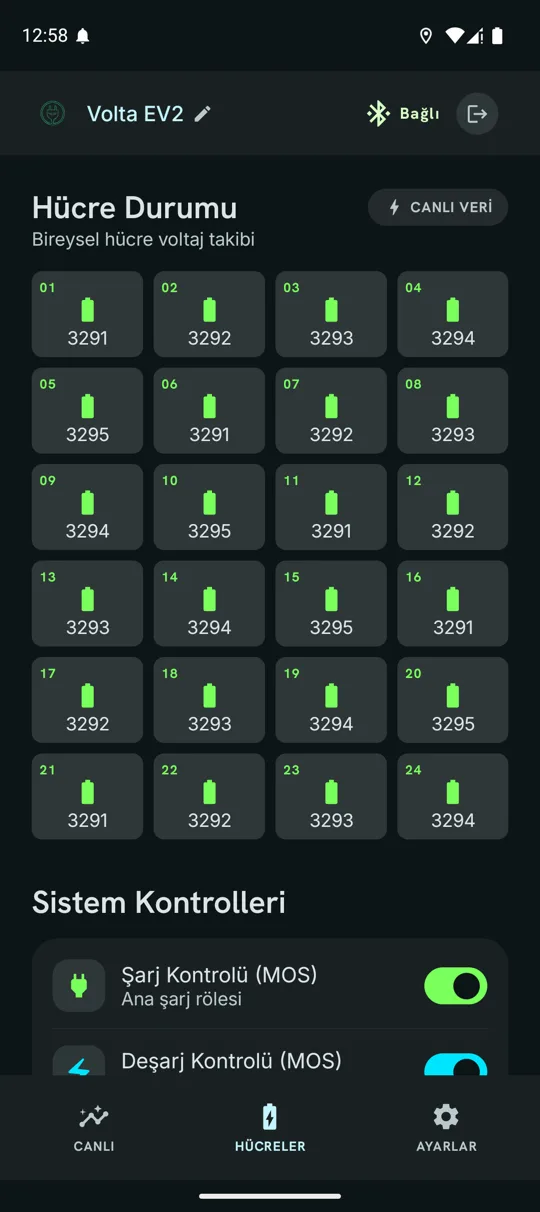
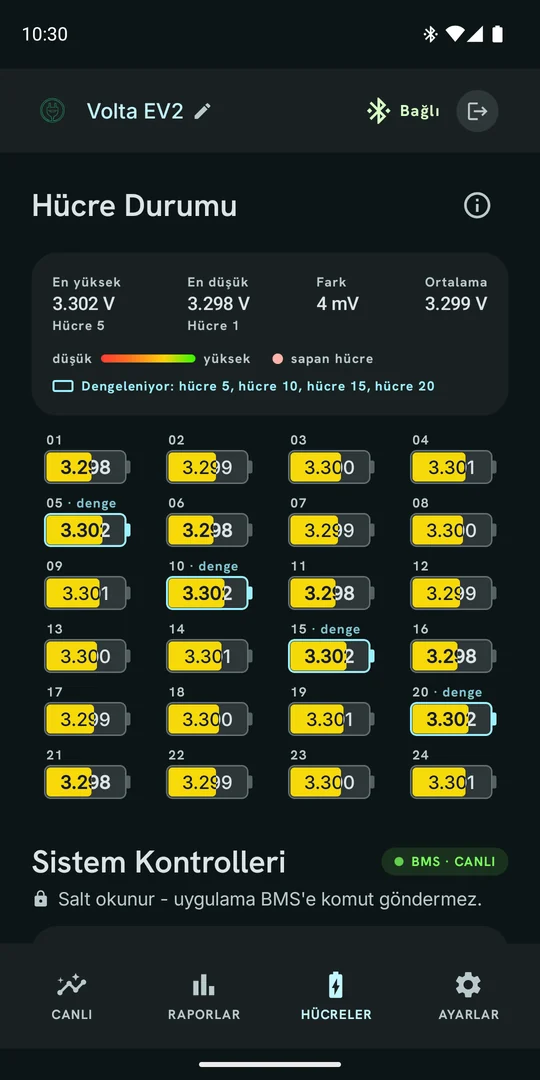
1.0.07: sürüş ve şarj kaydı, yeni ekran görüntüleri, APK bağlantısı kaldırıldı
Sürüm notları, Sürüş kaydı ve raporlar / Şarj kaydı kartları, sürüş penceresi
iPhone'u da kapsıyor, hücre kartı güncel. Ekran görüntüleri 1.0.07 arayüzüyle
yenilendi (Raporlar'ın iki sayfası eklendi). Android için APK dağıtımı bırakıldı:
güncellemeler yalnızca Google Play üzerinden.

diff --git a/index.html b/index.html
@@ -4,7 +4,7 @@
 <meta charset="utf-8">
 <meta name="viewport" content="width=device-width, initial-scale=1">
 <title>Volta Şarj</title>
-<meta name="description" content="Elektrikli aracınızın bataryasını Bluetooth ile telefonunuzdan izleyin: doluluk, öğrenen menzil tahmini, şarj alarmı, hücre gerilimleri.">
+<meta name="description" content="Elektrikli aracınızın bataryasını Bluetooth ile telefonunuzdan izleyin: doluluk, öğrenen menzil tahmini, sürüş ve şarj kaydı, şarj alarmı, hücre gerilimleri.">
 <link rel="icon" href="icon.png">
 <style>
   :root {
@@ -45,8 +45,11 @@
   .shot p { margin: .6rem 0 0; font-size: .85rem; color: var(--muted); line-height: 1.4; }
   @media (min-width: 60rem) {
     main { max-width: 58rem; }
-    .shots { overflow: visible; justify-content: center; }
     .shot { width: 12.5rem; }
+  }
+  /* Altı görsel ancak bu genişlikte yan yana sığıyor; altında şerit yana kaydırılıyor. */
+  @media (min-width: 84rem) {
+    .shots { overflow: visible; justify-content: center; }
   }
   .grid { display: grid; gap: 1rem; grid-template-columns: repeat(auto-fit, minmax(15rem, 1fr)); }
   .card { background: var(--card); border-radius: 10px; padding: 1.1rem 1.2rem; }
@@ -98,19 +101,27 @@
 
 <div class="shots">
   <figure class="shot" style="margin:0">
-    <img src="ekran/sarj.webp" alt="Şarj ekranı: doluluk yüzdesi, tahmini dolum süresi ve kurulu şarj alarmı" loading="lazy" width="540" height="1212">
-    <p>Şarjda: dolum süresi ve kurulu alarm</p>
+    <img src="ekran/sarj.webp" alt="Şarj ekranı: doluluk yüzdesi, şarj olurken pilden yükselen kıvılcımlar, tahmini dolum süresi" loading="lazy" width="540" height="1080">
+    <p>Şarjda: dolum süresi ve alarm</p>
   </figure>
   <figure class="shot" style="margin:0">
-    <img src="ekran/surus.webp" alt="Sürüş ekranı: güç göstergesi ve tahmini menzil" loading="lazy" width="540" height="1212">
+    <img src="ekran/surus.webp" alt="Sürüş ekranı: güç göstergesi, tahmini menzil ve gerilim" loading="lazy" width="540" height="1080">
     <p>Sürüşte: güç göstergesi ve menzil</p>
   </figure>
   <figure class="shot" style="margin:0">
-    <img src="ekran/hucreler.webp" alt="Hücreler ekranı: 24 hücrenin gerilimleri ve sistem kontrolleri" loading="lazy" width="540" height="1212">
+    <img src="ekran/suruslar.webp" alt="Raporlar, Sürüşler sayfası: son şarjdan beri 39.9 km, tüketim ve verim" loading="lazy" width="540" height="1080">
+    <p>Sürüş kaydı ve raporlar</p>
+  </figure>
+  <figure class="shot" style="margin:0">
+    <img src="ekran/sarjlar.webp" alt="Raporlar, Şarjlar sayfası: şarj istasyonu sahnesi, son şarj ve toplam eklenen Ah" loading="lazy" width="540" height="1080">
+    <p>Şarj kaydı</p>
+  </figure>
+  <figure class="shot" style="margin:0">
+    <img src="ekran/hucreler.webp" alt="Hücreler ekranı: 24 hücrenin gerilimi, dengelenen hücreler" loading="lazy" width="540" height="1080">
     <p>Hücre hücre gerilimler</p>
   </figure>
   <figure class="shot" style="margin:0">
-    <img src="ekran/acik-tema.webp" alt="Açık temada park halindeki araç ekranı" loading="lazy" width="540" height="1212">
+    <img src="ekran/acik-tema.webp" alt="Açık temada park halindeki araç ekranı" loading="lazy" width="540" height="1080">
     <p>Açık ya da koyu tema</p>
   </figure>
 </div>
@@ -128,14 +139,24 @@
        Ne zaman biteceği o anki şarj akımına göre hesaplanır, uygulama kapalıyken de çalışır.</p>
   </div>
   <div class="card">
+    <h3>Sürüş kaydı ve raporlar</h3>
+    <p>Sürüşleriniz kaydedilir: mesafe, tüketim, kilometre başına Ah, hız ve grafikler.
+       Bugün, bu hafta ya da son şarjdan beri ne kadar yol gittiğinizi görün.</p>
+  </div>
+  <div class="card">
+    <h3>Şarj kaydı</h3>
+    <p>Her şarjın başlangıç ve bitiş doluluğu, eklenen Ah ve süresi. Uygulama bağlı değilken
+       yaptığınız şarj da bir sonraki bağlantıda doluluk farkından bulunur.</p>
+  </div>
+  <div class="card">
     <h3>Öğrenen menzil tahmini</h3>
     <p>Sabit bir katsayı yerine sizin sürüşlerinizden öğrenilen tüketime ve batarya sıcaklığına
        göre. Aracın kilometresini girerek tahmini kendi aracınıza kalibre edebilirsiniz.</p>
   </div>
   <div class="card">
     <h3>Hücre bazında detay</h3>
-    <p>Her hücrenin gerilimi, aralarındaki fark ve bir hücre geride kalırsa uyarı. Şarj ve
-       deşarj rölelerinin durumu.</p>
+    <p>Her hücrenin gerilimi, aralarındaki fark ve bir hücre geride kalırsa uyarı. BMS'in o an
+       dengelediği hücreler, koruma eşikleri, şarj ve deşarj rölelerinin durumu.</p>
   </div>
   <div class="card">
     <h3>Sıcaklık ve arızalar</h3>
@@ -148,9 +169,10 @@
        oluyor" demez.</p>
   </div>
   <div class="card">
-    <h3>Sürüş penceresi (Android)</h3>
-    <p>Navigasyon açıkken bile doluluk, menzil ve akım küçük bir pencerede diğer uygulamaların
-       üstünde kalır.</p>
+    <h3>Sürüş penceresi</h3>
+    <p>Araca bağlıyken uygulamadan çıkınca doluluk, menzil ve akım görünür kalır: Android'de
+       diğer uygulamaların üstünde küçük bir pencerede, iPhone'da kilit ekranında ve Dynamic
+       Island'da.</p>
   </div>
   <div class="card">
     <h3>Bağlantı kopsa da</h3>
@@ -177,12 +199,6 @@
       adresine Google hesabınızın e-postasıyla yazın; listeye eklendikten sonra yukarıdaki
       bağlantıyla katılabilirsiniz.
     </p>
-    <p class="dl-note" style="margin-top:1rem">
-      Beklemek istemiyorsanız
-      <a href="https://github.com/naimyag/volta_sarj/releases/latest/download/VoltaSarj.apk">APK'yı doğrudan indirin</a>.
-      Telefonunuz kurulumdan önce bu kaynaktan kuruluma izin isteyecek; güncellerken aynı
-      dosyayı tekrar indirmeniz yeterli, üzerine kurulur.
-    </p>
   </div>
   <div class="dl-card">
     <h3>iPhone</h3>
@@ -197,6 +213,38 @@
 </div>
 
 <h2>Sürüm notları</h2>
+<div class="rel">
+  <div class="rel-head">
+    <span class="rel-ver">1.0.07</span>
+    <span class="rel-date">25 Eylül 2026</span>
+  </div>
+  <ul>
+    <li><strong>Sürüş Kaydı.</strong> Araç sürülüyor görününce kaydetmek isteyip istemediğiniz
+        sorulur; bir kez &quot;Kaydet&quot; derseniz sonraki sürüşler sormadan kaydedilir. Aracın
+        km'sini girerek uygulama sayacını araçla eşitleyebilirsiniz</li>
+    <li><strong>Raporlar sekmesi.</strong> Sürüşler: mesafe, tüketim, Ah/km, ortalama hız,
+        grafikler ve sürüş ayrıntısı. Şarjlar: her şarjın başlangıç ve bitiş doluluğu, eklenen
+        Ah ve süre. &quot;Bu şarj / Bugün / Hafta / Tümü&quot; filtreleri</li>
+    <li><strong>Şarj kaydı.</strong> Uygulama bağlıyken ölçülür; bağlı değilken olan şarj bir
+        sonraki bağlantıda doluluk farkından tahmin edilir. Telefon ara ara kopup bağlansa da
+        bir şarj tek kayıt kalır</li>
+    <li><strong>iPhone'da sürüş penceresi:</strong> kilit ekranında ve Dynamic Island'da</li>
+    <li>Android'de sürüş penceresi araca bağlanınca kendiliğinden hazırlanır, uygulamadan
+        çıkınca görünür; uygulamayı görev listesinden kapatınca kapanır</li>
+    <li><strong>Hücreler:</strong> yeni görünüm; o an dengelenen hücreler; BMS'ten okunan
+        dengeleme ve koruma eşikleri; şarj ve deşarj rölelerinin gerçek durumu. Şarj sonunda
+        hücreler arasında doğal olarak açılan fark artık uyarı vermiyor</li>
+    <li><strong>Yeni görünüm ve animasyonlar:</strong> sayılar kayarak değişir; şarjda pilden
+        kıvılcımlar, rejeneratif frende yeşil dalga; raporlarda yol ve şarj istasyonu
+        sahneleri. Sürerken ekran sakin kalır, &quot;hareketi azalt&quot; açıksa animasyonlar
+        kapanır</li>
+    <li>Araca bağlanınca ve sürüş kaydedilince hafif titreşim</li>
+    <li>Aşağı çekip yenilemek canlı bağlantıyı koparmıyor</li>
+    <li>Açılış ekranı uygulamanın temasıyla açılıyor (Android 12 ve üstü)</li>
+    <li>Uygulama metinleri artık &quot;cihaz&quot; değil &quot;araç&quot; diyor</li>
+    <li>Uygulama 47 MB'tan 8 MB'a küçüldü (Android)</li>
+  </ul>
+</div>
 <div class="rel">
   <div class="rel-head">
     <span class="rel-ver">1.0.06</span>
